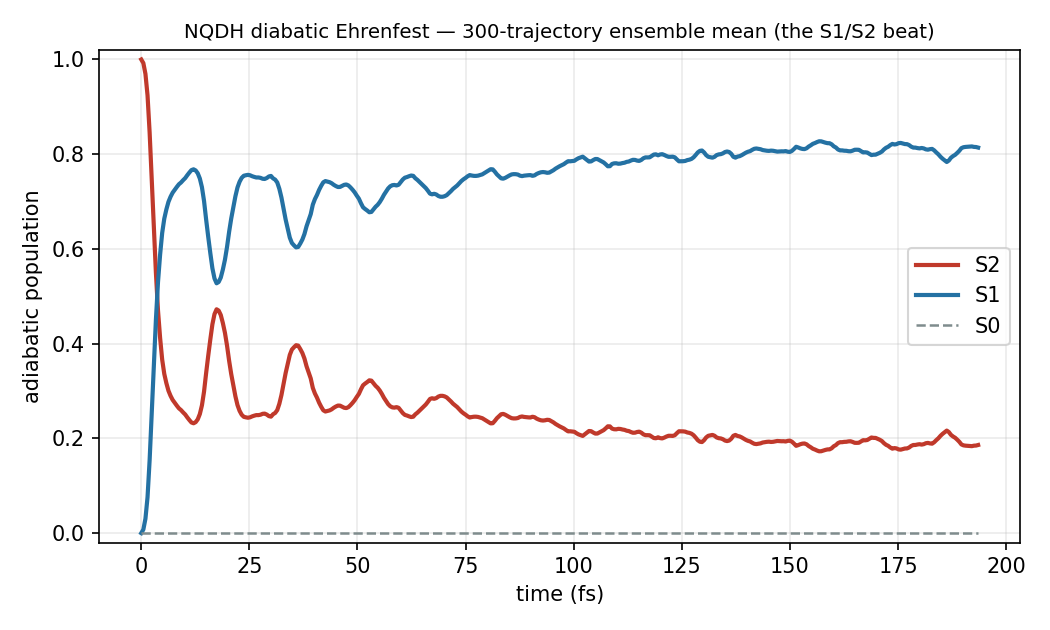
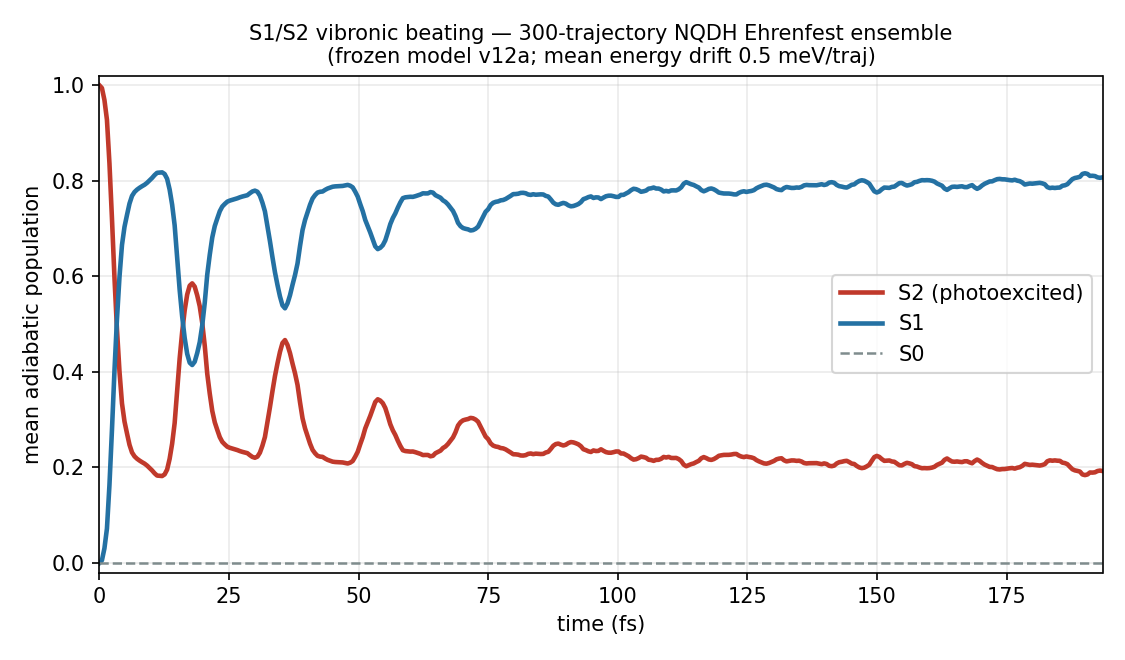
model: upgrade frozen NQDH to v12a; regenerate reference ensemble
v12a = two active-learning rounds + a direct gap loss on top of the v11
lineage; best coupling and gap-splitting accuracy so far. The regenerated
300-trajectory reference beat now shows recurrences at ~18/36/54/72 fs with
each peak smaller and broader, decohering by ~90 fs -- matching the NEXMD
reference dynamics in both period and decoherence time, reproducibly across
training seeds. Demo ensemble verified against the research pipeline
(max mean-population deviation 3e-3; drift 0.5 meV/trajectory).
Vendored src/losses updated (the graph pickle references the new gap-loss
node class). README notes the model provenance.

Changed region(s): [[0.0, 0.0302, 1.0, 0.9651], [0.9143, 0.2111, 0.9448, 0.2413]]

diff --git a/src/losses/nqdh.py b/src/losses/nqdh.py
@@ -590,3 +590,87 @@ class EigenvalueEnergyLossNode(SingleNode):
         if use_mask:
             parents = (*parents, mask_node.main_output.pred)
         super().__init__(name, parents, module=module)
+
+
+class EigenvalueGapLoss(torch.nn.Module):
+    """Direct eigenvalue-GAP loss: differential spectroscopy in the objective.
+
+    Compares energy-ordered spectrum DIFFERENCES ``lambda_j - lambda_i`` to the
+    reference gaps ``E_j - E_i`` (references sorted ascending) for a set of state
+    pairs. The absolute-eigenvalue loss constrains the gaps only indirectly --
+    per-state errors that shift states rigidly are invisible to it as far as
+    differences go, and (with excited-state down-weighting) the optimizer can
+    park at a large gap error while every absolute term looks converged. This
+    term puts the *reported* observables -- excitation energies (0-1, 0-2) and
+    the dynamics gap (1-2) -- directly in the objective. Differential targets
+    also cancel common-mode model/label error (the same mechanism that makes
+    gaps the naturally-accurate output of a shared-backbone model).
+
+    Stability: identical to ``EigenvalueEnergyLoss`` -- only bounded eigenvalue
+    gradients (``d lambda_i = v_i^T dW v_i``), no eigenvector term, so safe at
+    near-degeneracies. The optional detached min-gap ``mask`` softens the
+    sorting kink at exact crossings, where the smooth power-sum term carries
+    the seam.
+
+    ``forward(eigenvalues, *refs[, mask])``: ``eigenvalues`` is ``(batch, K)``
+    ascending; refs are K ``(batch, 1)`` database columns; if ``use_mask`` the
+    last positional arg is the ``(batch,)`` gate. Result in eV.
+    """
+
+    def __init__(self, n_states: int, pairs: Sequence[tuple[int, int]] | None = None,
+                 mode: str = "mae", use_mask: bool = True, eps: float = 1e-12) -> None:
+        super().__init__()
+        if mode not in {"mse", "rmse", "mae"}:
+            raise ValueError(f"Unsupported eigenvalue gap loss mode {mode!r}")
+        if pairs is None:
+            pairs = [(i, j) for i in range(n_states) for j in range(i + 1, n_states)]
+        for i, j in pairs:
+            if not (0 <= i < j < n_states):
+                raise ValueError(f"Invalid gap pair ({i}, {j}) for n_states={n_states}")
+        self.n_states = n_states
+        self.pairs = list(pairs)
+        self.mode = mode
+        self.use_mask = use_mask
+        self.eps = eps
+
+    def forward(self, eigenvalues: torch.Tensor, *rest: torch.Tensor) -> torch.Tensor:
+        if self.use_mask:
+            *refs, mask = rest
+        else:
+            refs, mask = rest, None
+        ref = torch.cat([c.reshape(c.shape[0], 1) for c in refs], dim=-1)
+        ref_sorted, _ = torch.sort(ref, dim=-1)
+        ii = torch.tensor([p[0] for p in self.pairs], device=eigenvalues.device)
+        jj = torch.tensor([p[1] for p in self.pairs], device=eigenvalues.device)
+        gap_pred = eigenvalues[:, jj] - eigenvalues[:, ii]     # (batch, n_pairs)
+        gap_ref = ref_sorted[:, jj] - ref_sorted[:, ii]
+        diff = gap_pred - gap_ref
+        per_pair = diff.square() if self.mode in {"mse", "rmse"} else diff.abs()
+        per_sample = per_pair.mean(dim=-1)                     # (batch,)
+        if mask is not None:
+            w = mask.detach().to(dtype=per_sample.dtype)
+            out = (w * per_sample).sum() / w.sum().clamp_min(1e-12)
+        else:
+            out = per_sample.mean()
+        return torch.sqrt(out + self.eps) if self.mode == "rmse" else out
+
+
+class EigenvalueGapLossNode(SingleNode):
+    """Loss node: eigenvalue-gap loss (trained with mask_node, or unmasked monitor).
+
+    Parents: eigenvalues node (.pred) + K reference energy nodes (.true)
+    [+ eigen-gap "min" mask node (.pred) if given].
+    """
+
+    _index_state = IdxType.Scalar
+
+    def __init__(self, name: str, eigenvalues_node, reference_energy_nodes, n_states: int,
+                 pairs: Sequence[tuple[int, int]] | None = None, mode: str = "mae",
+                 mask_node=None) -> None:
+        use_mask = mask_node is not None
+        module = EigenvalueGapLoss(n_states, pairs=pairs, mode=mode, use_mask=use_mask)
+        ref_parents = tuple(node.main_output.true for node in reference_energy_nodes)
+        parents = (eigenvalues_node.main_output.pred, *ref_parents)
+        if use_mask:
+            parents = (*parents, mask_node.main_output.pred)
+        super().__init__(name, parents, module=module)

diff --git a/README.md b/README.md
@@ -28,8 +28,10 @@ run_demo.py            # entry point: run the model as dynamics, plot the beat
 nqdh_demo/             # minimal runtime: provider (W, dW), ehrenfest engine, Libra adapter
 src/                   # the model's node/loss definitions (needed to deserialize the graph)
 model/
-  w_graph.pt           #   frozen trained NQDH graph  (Z, R -> W)
-  nqdh_training_config.json
+  w_graph.pt           #   frozen trained NQDH graph  (Z, R -> W); generation "v12a":
+  nqdh_training_config.json    # 2 active-learning rounds + direct gap loss; the ensemble
+                               # beat period (~18 fs) and decoherence (~90 fs) are
+                               # reproducible across training seeds
 data/ics.npz           # INPUT: 300 thermal initial conditions (geometries + velocities)
 expected_output/       # OUTPUT to check against: precomputed 300-trajectory beat (.npz + .png)
 environment.yml